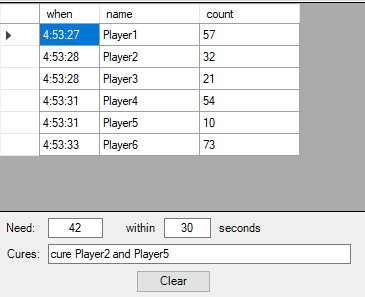
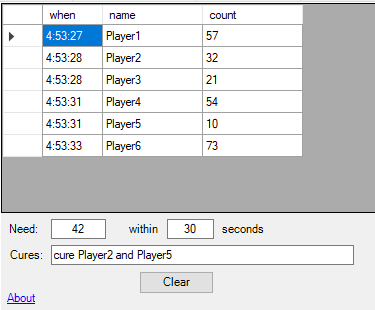
added About link

Changed region(s): [[0.0, 0.0, 1.0, 1.0], [0.0, 0.9394, 0.0904, 1.0]]

diff --git a/single_source/Adder.cs b/single_source/Adder.cs
@@ -298,6 +298,28 @@ namespace ACT_Adder
             Need.count = textBoxTarget.Text;
             SearchForTarget();
         }
+
+        private void linkLabel1_LinkClicked(object sender, LinkLabelLinkClickedEventArgs e)
+        {
+            try
+            {
+                VisitLink();
+            }
+            catch (Exception ex)
+            {
+                MessageBox.Show(ex.Message);
+            }
+        }
+
+        private void VisitLink()
+        {
+            // Change the color of the link text by setting LinkVisited
+            // to true.
+            linkLabel1.LinkVisited = true;
+            //Call the Process.Start method to open the default browser
+            //with a URL:
+            System.Diagnostics.Process.Start("https://github.com/jeffjl74/ACT_Adder#adder-plugin-for-advanced-combat-tracker");
+        }
     }
 }
 #endregion Adder.cs
@@ -324,6 +346,7 @@ namespace ACT_Adder
             this.label3 = new System.Windows.Forms.Label();
             this.textBoxSeconds = new System.Windows.Forms.TextBox();
             this.label4 = new System.Windows.Forms.Label();
+            this.linkLabel1 = new System.Windows.Forms.LinkLabel();
             ((System.ComponentModel.ISupportInitialize)(this.dataGridView1)).BeginInit();
             ((System.ComponentModel.ISupportInitialize)(this.playerBindingSource)).BeginInit();
             this.SuspendLayout();
@@ -443,8 +466,20 @@ namespace ACT_Adder
             this.label4.TabIndex = 4;
             this.label4.Text = "seconds";
             // 
+            // linkLabel1
+            // 
+            this.linkLabel1.AutoSize = true;
+            this.linkLabel1.Location = new System.Drawing.Point(4, 289);
+            this.linkLabel1.Name = "linkLabel1";
+            this.linkLabel1.Size = new System.Drawing.Size(35, 13);
+            this.linkLabel1.TabIndex = 9;
+            this.linkLabel1.TabStop = true;
+            this.linkLabel1.Text = "About";
+            this.linkLabel1.LinkClicked += new System.Windows.Forms.LinkLabelLinkClickedEventHandler(this.linkLabel1_LinkClicked);
+            // 
             // Adder
             // 
+            this.Controls.Add(this.linkLabel1);
             this.Controls.Add(this.label4);
             this.Controls.Add(this.textBoxSeconds);
             this.Controls.Add(this.label3);
@@ -476,6 +511,7 @@ namespace ACT_Adder
         private Label label3;
         private TextBox textBoxSeconds;
         private Label label4;
+        private LinkLabel linkLabel1;
     }
 }
 #endregion Adder.Designer.cs

diff --git a/Adder.Designer.cs b/Adder.Designer.cs
@@ -26,6 +26,7 @@ namespace ACT_Adder
             this.label3 = new System.Windows.Forms.Label();
             this.textBoxSeconds = new System.Windows.Forms.TextBox();
             this.label4 = new System.Windows.Forms.Label();
+            this.linkLabel1 = new System.Windows.Forms.LinkLabel();
             ((System.ComponentModel.ISupportInitialize)(this.dataGridView1)).BeginInit();
             ((System.ComponentModel.ISupportInitialize)(this.playerBindingSource)).BeginInit();
             this.SuspendLayout();
@@ -145,8 +146,20 @@ namespace ACT_Adder
             this.label4.TabIndex = 4;
             this.label4.Text = "seconds";
             // 
+            // linkLabel1
+            // 
+            this.linkLabel1.AutoSize = true;
+            this.linkLabel1.Location = new System.Drawing.Point(4, 289);
+            this.linkLabel1.Name = "linkLabel1";
+            this.linkLabel1.Size = new System.Drawing.Size(35, 13);
+            this.linkLabel1.TabIndex = 9;
+            this.linkLabel1.TabStop = true;
+            this.linkLabel1.Text = "About";
+            this.linkLabel1.LinkClicked += new System.Windows.Forms.LinkLabelLinkClickedEventHandler(this.linkLabel1_LinkClicked);
+            // 
             // Adder
             // 
+            this.Controls.Add(this.linkLabel1);
             this.Controls.Add(this.label4);
             this.Controls.Add(this.textBoxSeconds);
             this.Controls.Add(this.label3);
@@ -178,5 +191,6 @@ namespace ACT_Adder
         private Label label3;
         private TextBox textBoxSeconds;
         private Label label4;
+        private LinkLabel linkLabel1;
     }
 }

diff --git a/Adder.cs b/Adder.cs
@@ -258,5 +258,27 @@ namespace ACT_Adder
             Need.count = textBoxTarget.Text;
             SearchForTarget();
         }
+
+        private void linkLabel1_LinkClicked(object sender, LinkLabelLinkClickedEventArgs e)
+        {
+            try
+            {
+                VisitLink();
+            }
+            catch (Exception ex)
+            {
+                MessageBox.Show(ex.Message);
+            }
+        }
+
+        private void VisitLink()
+        {
+            // Change the color of the link text by setting LinkVisited
+            // to true.
+            linkLabel1.LinkVisited = true;
+            //Call the Process.Start method to open the default browser
+            //with a URL:
+            System.Diagnostics.Process.Start("https://github.com/jeffjl74/ACT_Adder#adder-plugin-for-advanced-combat-tracker");
+        }
     }
 }
